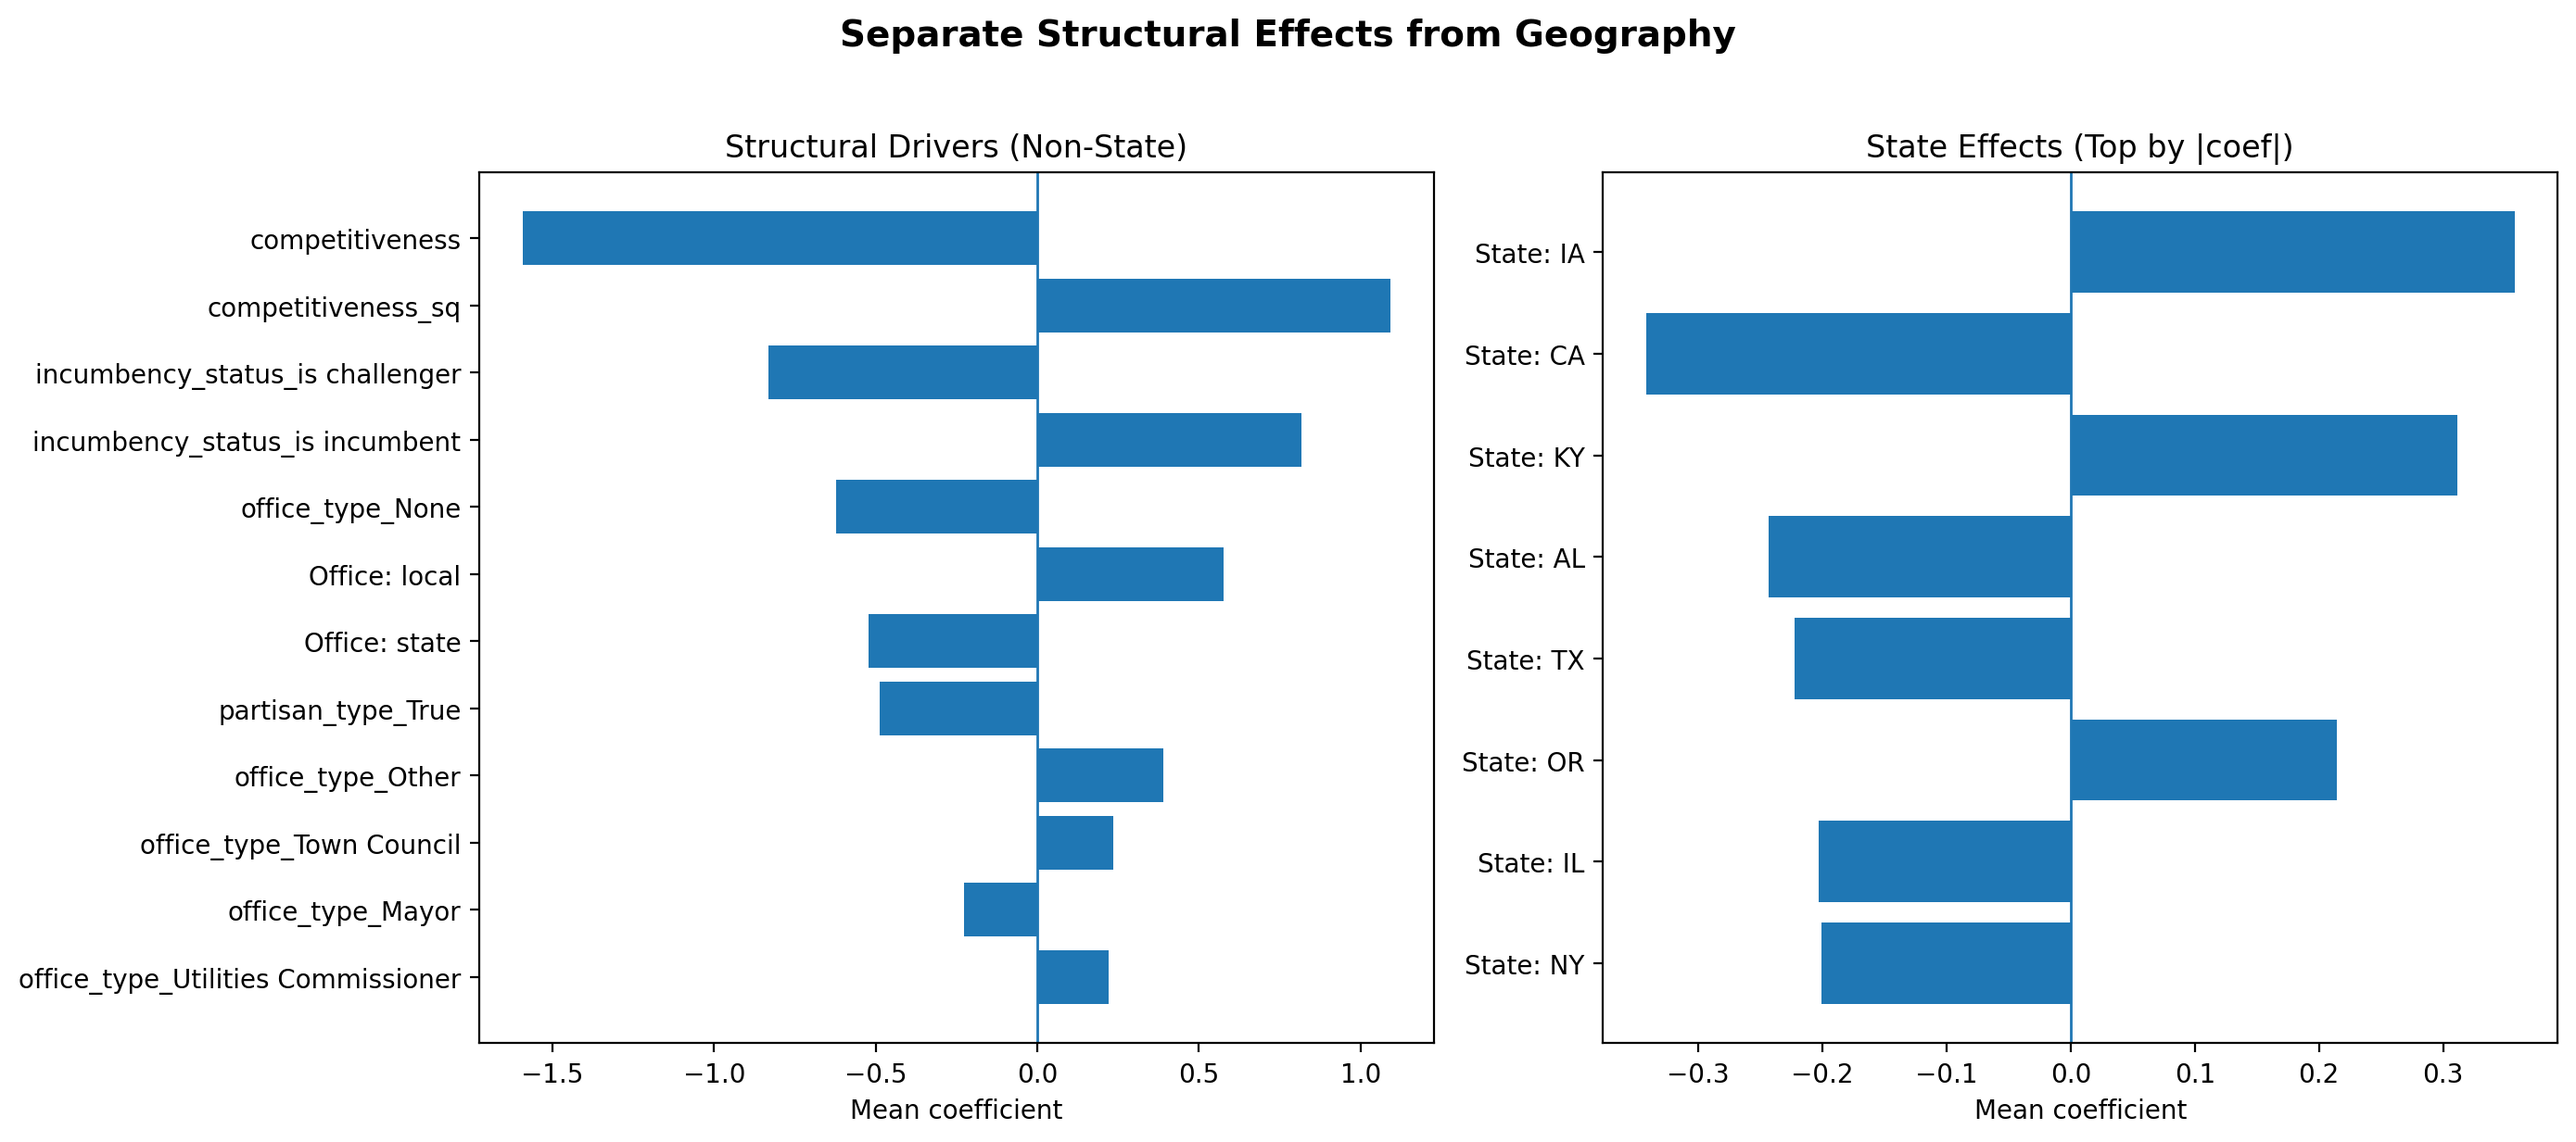
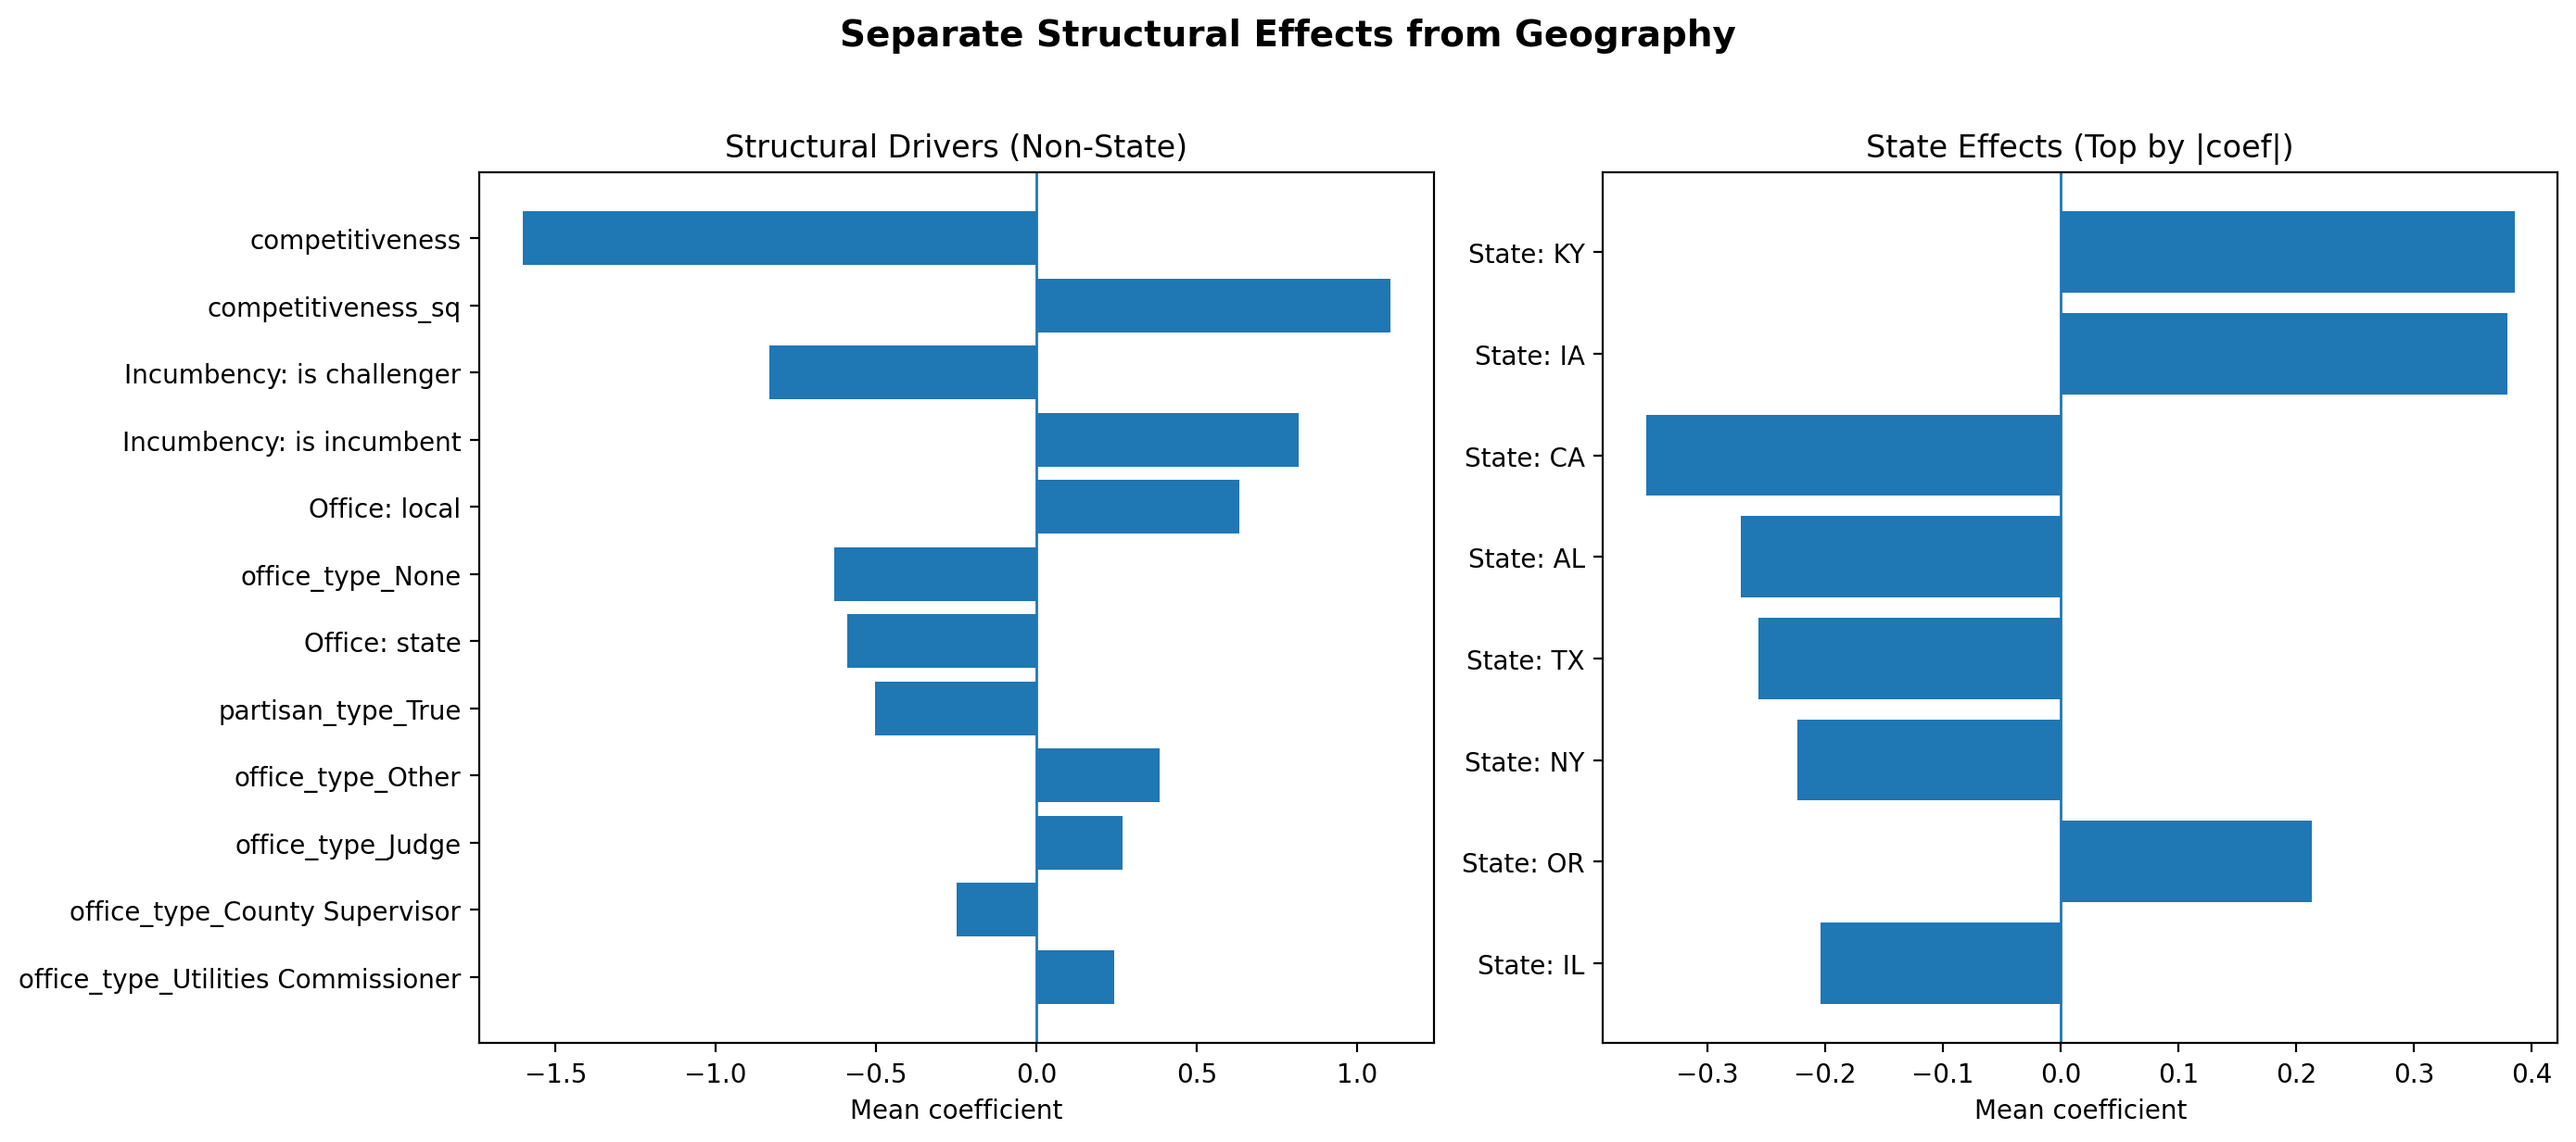
cleaned up pt 2

diff --git a/CandidateSuccessModelsGit/multimodelviz.py b/CandidateSuccessModelsGit/multimodelviz.py
@@ -306,6 +306,16 @@ def pretty_feature_name(feature: str) -> str:
         "recency_weighted_days": "Recency weighted outreach",
         "days_between_outreach_and_election": "Days between outreach and election",
         "recency_election_interaction": "Outreach × recency",
+        "n_outreach_rows": "# Outreach rows",
+        "score_theme_trust_pct": "Trust theme %",
+        "score_theme_hope_pct": "Hope theme %",
+        "score_theme_fear_pct": "Fear theme %",
+        "score_theme_anger_pct": "Anger theme %",
+        "score_candidate_authenticity": "Candidate authenticity",
+        "score_perspective_candidate_avg": "Candidate-focused language",
+        "score_perspective_voter_avg": "Voter-focused language",
+        "incumbency_status_": "Incumbency: ",
+        "most_common_outreach_type_": "Outreach type: ",
     }
 
     out = feature
@@ -322,20 +332,42 @@ def _domain_from_feature_name(feature: str) -> str:
     """
     f = str(feature).lower()
 
-    if any(x in f for x in ["opponent", "seat", "incumb", "competit"]):
+    if any(x in f for x in ["opponent", "seat", "incumb", "competit", "partisan"]):
         return "Race structure"
-    if any(x in f for x in ["office", "federal", "state_", "local", "partisan"]):
+
+    if any(x in f for x in ["office", "federal", "state_", "local"]):
         return "Office"
+
     if any(x in f for x in ["state_usps", "region", "west", "south", "midwest", "northeast", "territory"]):
         return "Geography"
+
     if any(x in f for x in ["election_", "midterm", "presidential", "normal_election", "_dow_"]):
         return "Election timing"
-    if any(x in f for x in ["outreach", "message", "script", "persona", "recency", "days_between"]):
+
+    if any(x in f for x in [
+        "outreach",
+        "recency",
+        "days_between",
+        "n_outreach_rows",
+    ]):
         return "Outreach"
+
     if any(x in f for x in ["general", "runoff", "special", "primary"]):
         return "Election Type"
-    if any(x in f for x in ["sentiment", "angry", "positive", "negative"]):
-        return "Text / sentiment"
+
+    if any(x in f for x in [
+        "score_theme_",
+        "score_candidate_authenticity",
+        "score_perspective_",
+        "trust",
+        "hope",
+        "fear",
+        "anger",
+        "authenticity",
+        "perspective",
+    ]):
+        return "Text / messaging"
+
     return "Other"
 
 
@@ -1018,6 +1050,8 @@ def plot_grouped_small_multiples(
             "Election timing",
             "Outreach",
             "Election Type",
+            "Text / messaging",
+            "Other",
         ]
         if d in df["domain"].unique()
     ]

diff --git a/CandidateSuccessModelsGit/training_pipeline.py b/CandidateSuccessModelsGit/training_pipeline.py
@@ -16,7 +16,6 @@ import mlflow
 import mlflow.sklearn
 from mlflow.models import infer_signature
 from mlflow.tracking import MlflowClient
-from sentiment import add_message_level_text_features
 
 
 from config import (
@@ -30,9 +29,9 @@ from config import (
     UC_SCHEMA,
     EXPERIMENT_PATH,
 )
-from load_data import load_training_data
+
 from cv import make_group_folds
-from feature_engineering import split_X_y, aggregate_message_level_data
+from feature_engineering import split_X_y
 from modeling import (
     make_model_pipeline,
     extract_model_importance,
@@ -49,10 +48,7 @@ from evaluation import (
 )
 
 from mlflow_utils import (
-    ensure_experiment,
     get_registered_model_name,
-    validate_model_config,
-    parse_args,
 )
 
 # =========================================================

diff --git a/CandidateSuccessModelsGit/run_scoring.py b/CandidateSuccessModelsGit/run_scoring.py
@@ -15,7 +15,6 @@ from model training. It assumes a trained model has already been registered
 in MLflow and assigned the alias specified in config.py.
 """
 
-import argparse
 import mlflow
 import mlflow.sklearn
 from pyspark.sql import functions as F
@@ -23,11 +22,9 @@ from pyspark.sql import functions as F
 from load_data import load_scoring_data
 from scoring import score_candidates
 from config import (
-    MODEL_NAME as DEFAULT_MODEL_NAME,
     UC_CATALOG,
     UC_SCHEMA,
     MODEL_ALIAS,
-    MODEL_CONFIGS,
 )
 
 from sentiment import add_message_level_text_features

diff --git a/CandidateSuccessModelsGit/config.py b/CandidateSuccessModelsGit/config.py
@@ -339,7 +339,7 @@ DROP_COLS = [
     "days_between_outreach_and_election", # -> recency_weighted_days, recency_election_interaction
     "number_avail_seats", # -> competitiveness
     "number_of_opponents_num", # -> competitiveness
-    "script" # -> sentiment features
+    "script", # -> sentiment features
     
     # Not included at the moment
     # Excluded for now because we were not given access to
